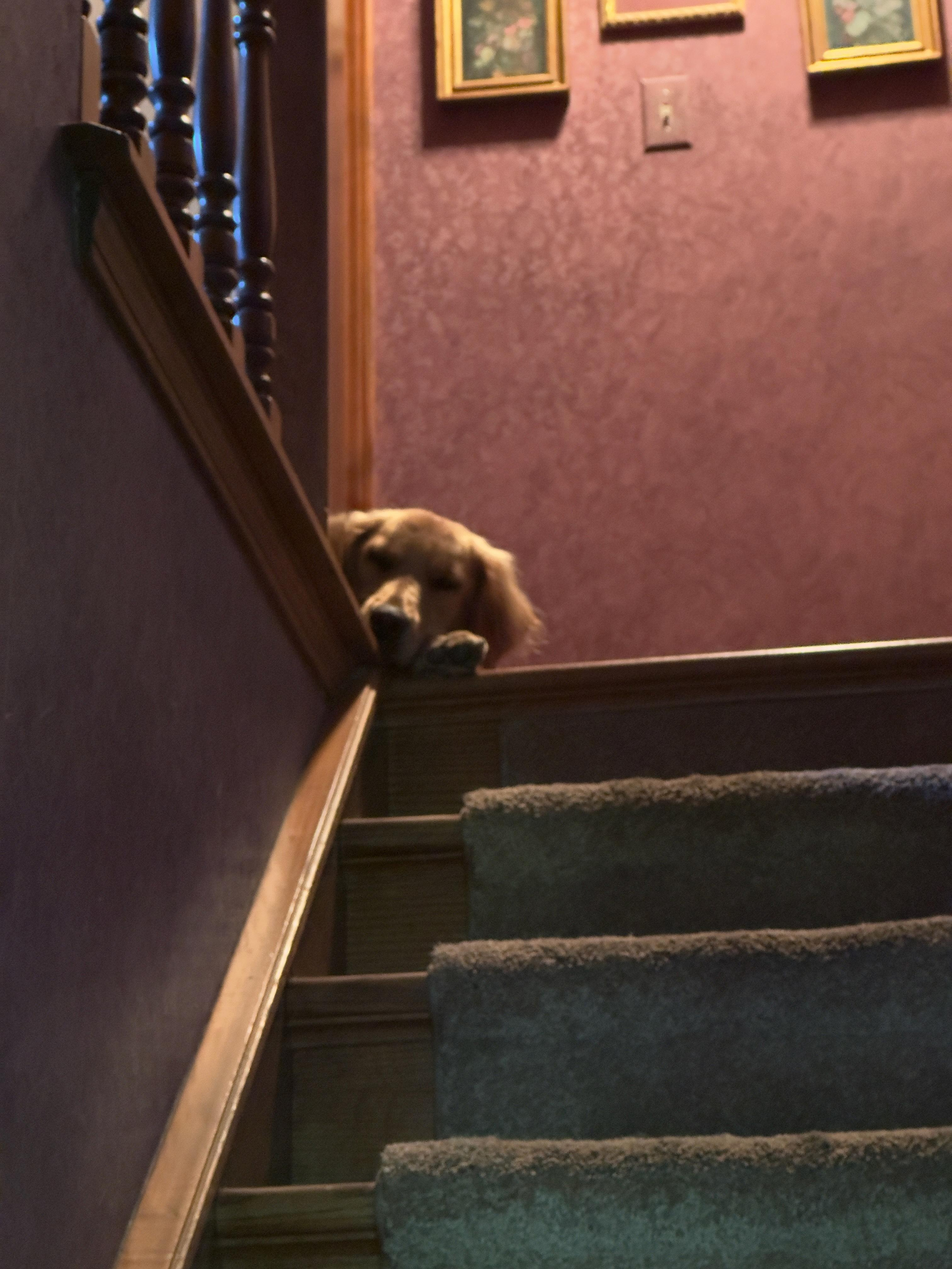
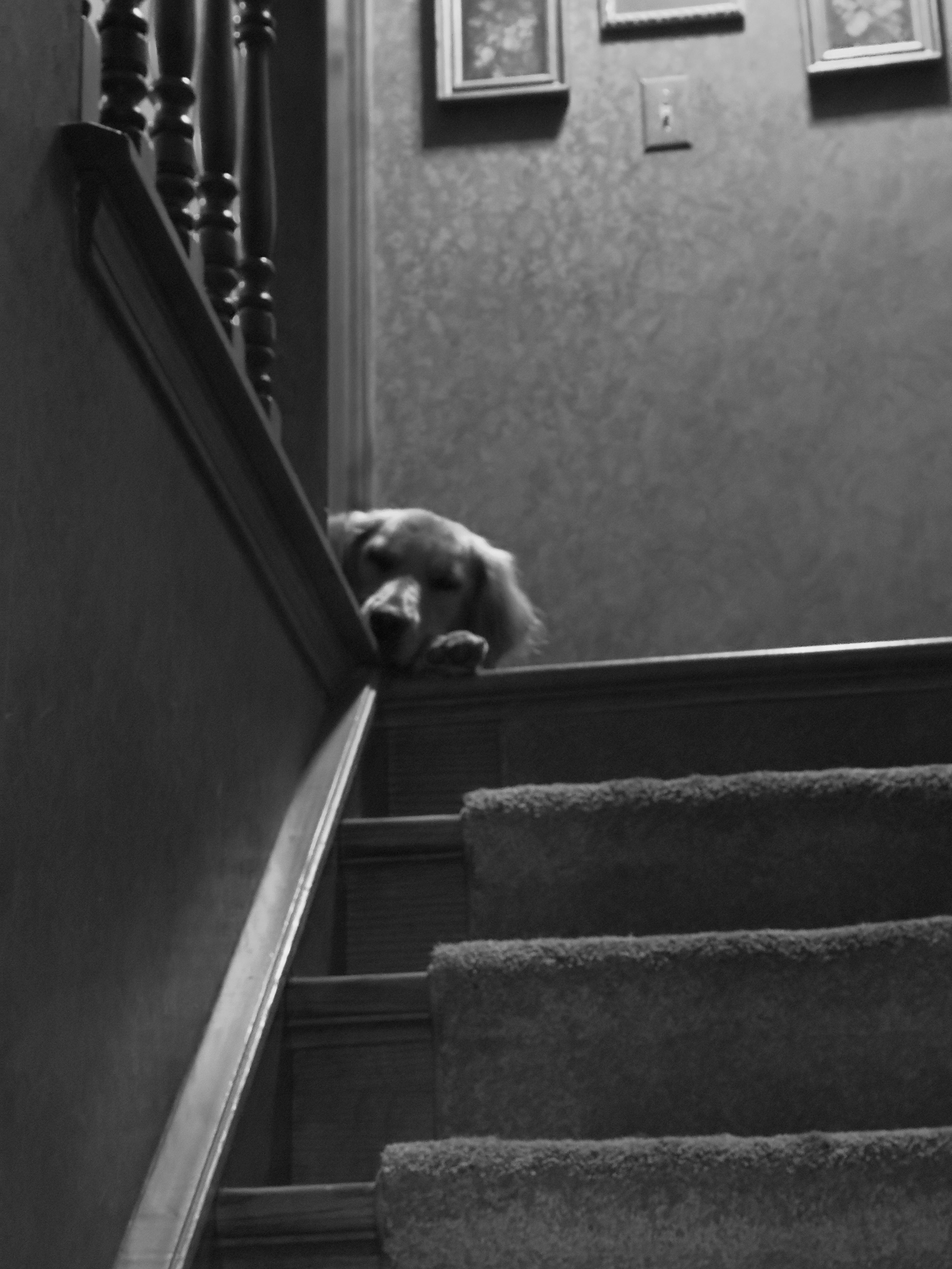
added a grayscale feature

diff --git a/photoEditor.py b/photoEditor.py
@@ -7,7 +7,7 @@ pathOut = '/editedImgs'
 for filename in os.listdir(path):
     img = Image.open(f"{path}/{filename}")
 
-    edit = img.filter(ImageFilter.SHARPEN)
+    edit = img.filter(ImageFilter.SHARPEN).convert('L')
 
     clean_name = os.path.splitext(filename)[0]
     
